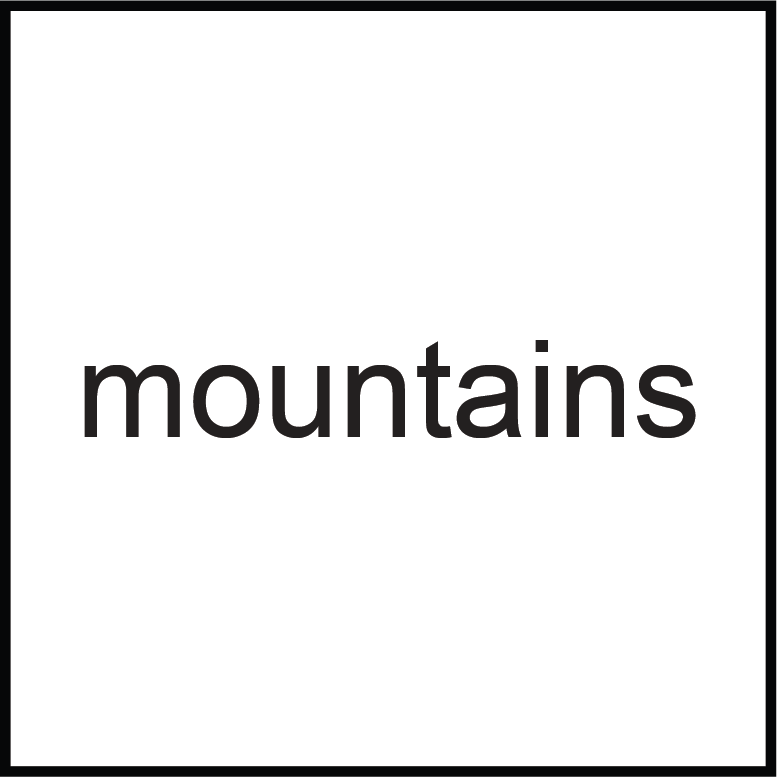
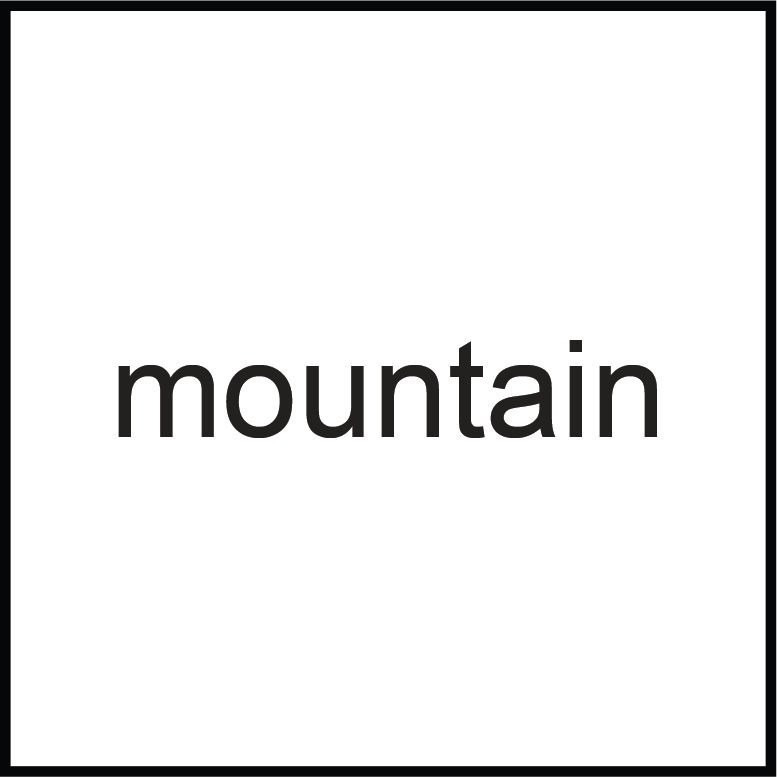
removed plurals and fixed pseudo-random run org

Changed region(s): [[0.0927, 0.4324, 0.8958, 0.5869]]

diff --git a/sequences/stimuli_manager.py b/sequences/stimuli_manager.py
@@ -75,7 +75,7 @@ def count_dupes(arr:List)-> int:
 
 def sample_n_throw(arr:List, n:int=3) -> Tuple[List, List]:
     '''Sample n items from a list and remove them'''
-    sample = random.sample(set(arr), n)
+    sample = random.sample(sorted(set(arr)), n)
     for s in sample:
         arr.remove(s)
     return sample, arr
@@ -131,7 +131,7 @@ def distribute_sequences_block(seq_names: list, n_blocks: int) -> Dict[str, List
 
     return blocks
 
-def generate_run_org(sequences:Dict[str, List]) -> Dict[str, Dict[str, List[str]]]:
+def generate_run_org(sequences:Dict[str, List], seed) -> Dict[str, Dict[str, List[str]]]:
     ''' Generate the organization of sequences in the runs. The function returns a dict with the blocks of each run.
     It controls that the sequences are well distributed between the two runs.
     If the experiment crashes, the splits will stay the same, but the blocks org will change. This is due to the
@@ -155,7 +155,7 @@ def generate_run_org(sequences:Dict[str, List]) -> Dict[str, Dict[str, List[str]
         return repeated_items
 
     def gen_one_run(sequences: List) ->  Dict[str, List[str]]:
-        '''Generate one run with only 2 repeated pairs. Return the blocks, repeated pairs and unrepeated sequences.
+        '''Generate one run with only 2 repeated pairs.
         Returned dict looks like this {'block1': ['L', 'E', 'G'], 'block2':[...], ...}'''
         two_rep_pairs = False
         while not two_rep_pairs: # Keep generating blocks until we get the best case scenario
@@ -168,6 +168,7 @@ def generate_run_org(sequences:Dict[str, List]) -> Dict[str, Dict[str, List[str]
                 two_rep_pairs = True
         return blocks
     
+    random.seed(seed) # has to set again because the function is called multiple times
     seq_names = list(sequences.keys())
     seq_separated = distribute_sequences_run(seq_names, 2)
     run_org = {

diff --git a/pipeline.py b/pipeline.py
@@ -34,7 +34,7 @@ def execute_run(debugging=False):
         amodal_sequences, question_mod_org, first_seq_mod_org = setup_sequence_distribution(tools)
     except Exception as exc:
         fl.log_exceptions(f"An error occurred during sequence generation: {exc}", logger, tools['win'])
-    two_run_org = sm.generate_run_org(amodal_sequences) # get the global oorganization of sequences for the two runs
+    two_run_org = sm.generate_run_org(amodal_sequences, seed=tools['seed']) # get the global oorganization of sequences for the two runs
     run_org = two_run_org[f'run{int(exp_info["run"])}'] # get the organization of sequences for the current run
     logger.info(f'=============== Start of run {exp_info["run"]} ===============')
     logger.info(f'run org: {run_org}')
@@ -276,6 +276,7 @@ def initialize_run(debugging):
         'exp_info': exp_info,
         'q_reward_sounds': q_reward_sounds,
         'reward_max': reward_max,
+        'seed': seed,
         'out_dir': out_dir
     }
     
@@ -478,10 +479,10 @@ def ask_trial_question(tools, tracker, amodal_sequences, question_modalities, se
     t_act = pm.t_act
     t_fb = pm.t_fb
     if tools['debugging']:
-        t_viz_cue = pm.t_viz_cue
-        t_viz_target = pm.t_viz_target
-        t_act = pm.t_act
-        t_fb = pm.t_fb
+        t_viz_cue = 0.1
+        t_viz_target = 0.1
+        t_act = 0.1
+        t_fb = 0.1
 
     background.draw()
     cue_viz.draw()

diff --git a/bonus_question.py b/bonus_question.py
@@ -170,12 +170,12 @@ def ask_all_seq(subject_id, run_id, lang, win_dict=None):
 
     out_dir = f"{pm.output_dir}/sub-{subject_id}"
     try:
-        sm.r_and_set_seed(out_dir)
+        seed = sm.r_and_set_seed(out_dir)
     except FileNotFoundError as e:
         print(e)
 
     all_amodal_sequences = sm.generate_sequences(pm.input_dir, pm.seq_structures, lang)
-    two_run_org = sm.generate_run_org(all_amodal_sequences)
+    two_run_org = sm.generate_run_org(all_amodal_sequences, seed=seed)
     amodal_sequences = extract_sequences(two_run_org, run_id, all_amodal_sequences)
     amodal_sequences = shuffle_dict(amodal_sequences)
 
